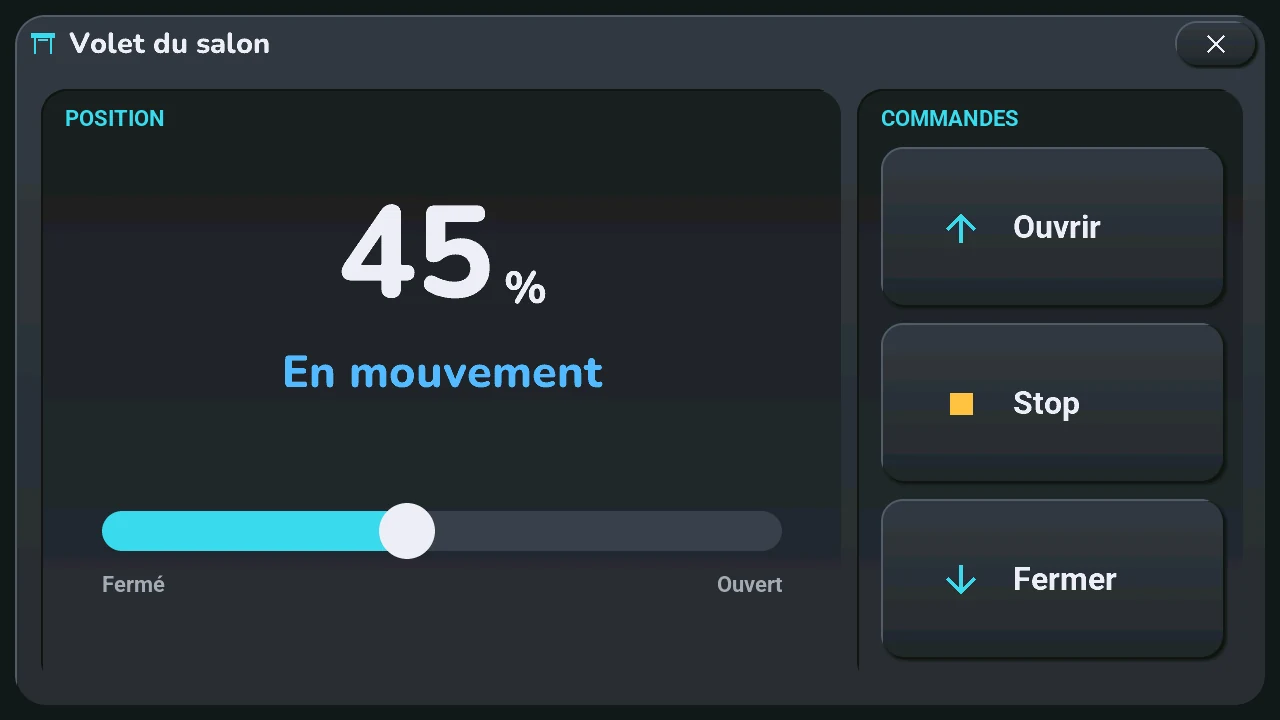
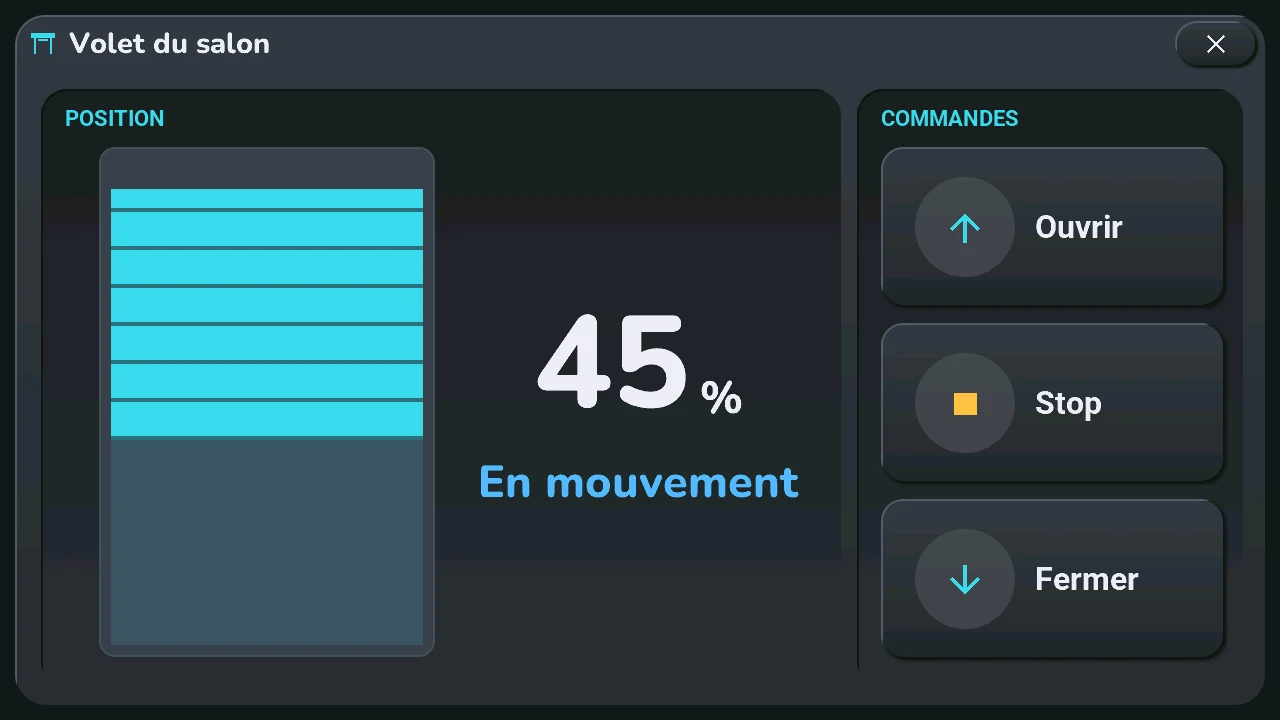
docs(notice): images du volet dessiné, et le volet tiré du doigt
Images tirées du rendu de la PR (run 37467143105) par
tools/site/images_notice.py : volet et volet-sans-position refaites,
volet-glisse ajoutée à la notice (fr et en) et retirée de NON_MONTREES.
Les autres images de la notice ne sont pas touchées.

diff --git a/tests/test_notice.py b/tests/test_notice.py
@@ -45,7 +45,6 @@ NON_MONTREES = {
     "energie-heures": "energie-jours montre la même fenêtre ; les vues sont décrites",
     "energie-mois": "energie-jours montre la même fenêtre ; les vues sont décrites",
     "console-confirmer-redemarrage-ha": "même confirmation que console-confirmer-reboot",
-    "volet-glisse": "volet montre la même fenêtre ; le glissement est décrit en mots",
 }
 
 

diff --git a/docs/notice/shutters.md b/docs/notice/shutters.md
@@ -15,6 +15,8 @@
 - To its right, the position in large digits and the state in words: « Open », « Closed », « Partly open », « Moving », « Offline ».
 - The drawing follows the real shutter while it moves, never under your finger.
 
+![The shutter dragged down with a finger, from 45 % to 13 %](../images/notice/volet-glisse-en.webp)
+
 **Controls** (right): **Open**, **Stop**, **Close**.
 
 A shutter that does not report its position cannot be dragged: the drawing shows its state (open at the top, closed at the bottom, half-way with faded slats otherwise) and the words, without a number:
@@ -39,6 +41,8 @@ A shutter card set to *confirm* in the blueprint does not open this window: its 
 - **Faites-le glisser** du doigt vers le haut ou le bas, depuis n'importe où sur la fenêtre, et **levez le doigt** : le volet va à cette position. Le dessin et le nombre suivent le doigt ; rien ne part pendant le glissement, et un simple toucher n'envoie rien.
 - À sa droite, la position en grands chiffres et l'état en mots : « Ouvert », « Fermé », « Partiel », « En mouvement », « Hors ligne ».
 - Le dessin suit le vrai volet pendant qu'il bouge, jamais sous votre doigt.
+
+![Le volet tiré du doigt vers le bas, de 45 % à 13 %](../images/notice/volet-glisse-fr.webp)
 
 **Commandes** (à droite) : **Ouvrir**, **Stop**, **Fermer**.
 
